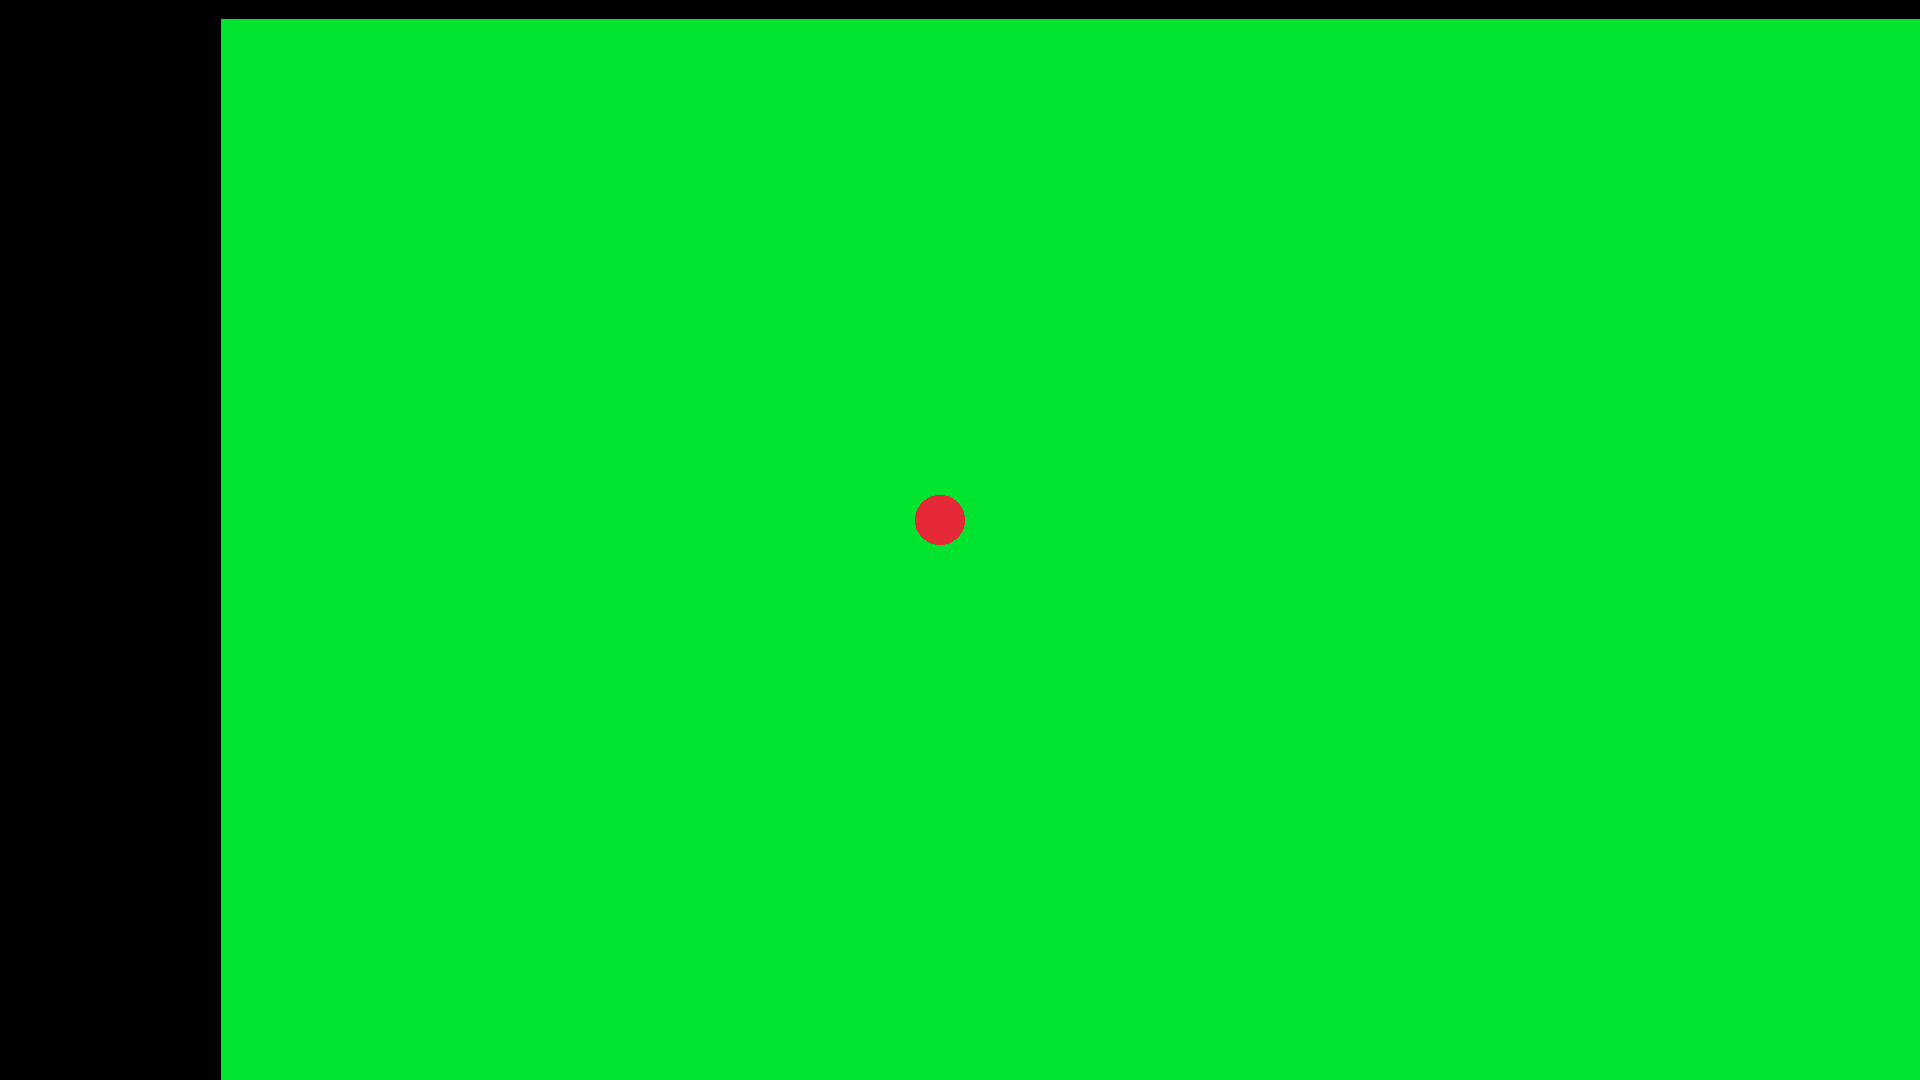
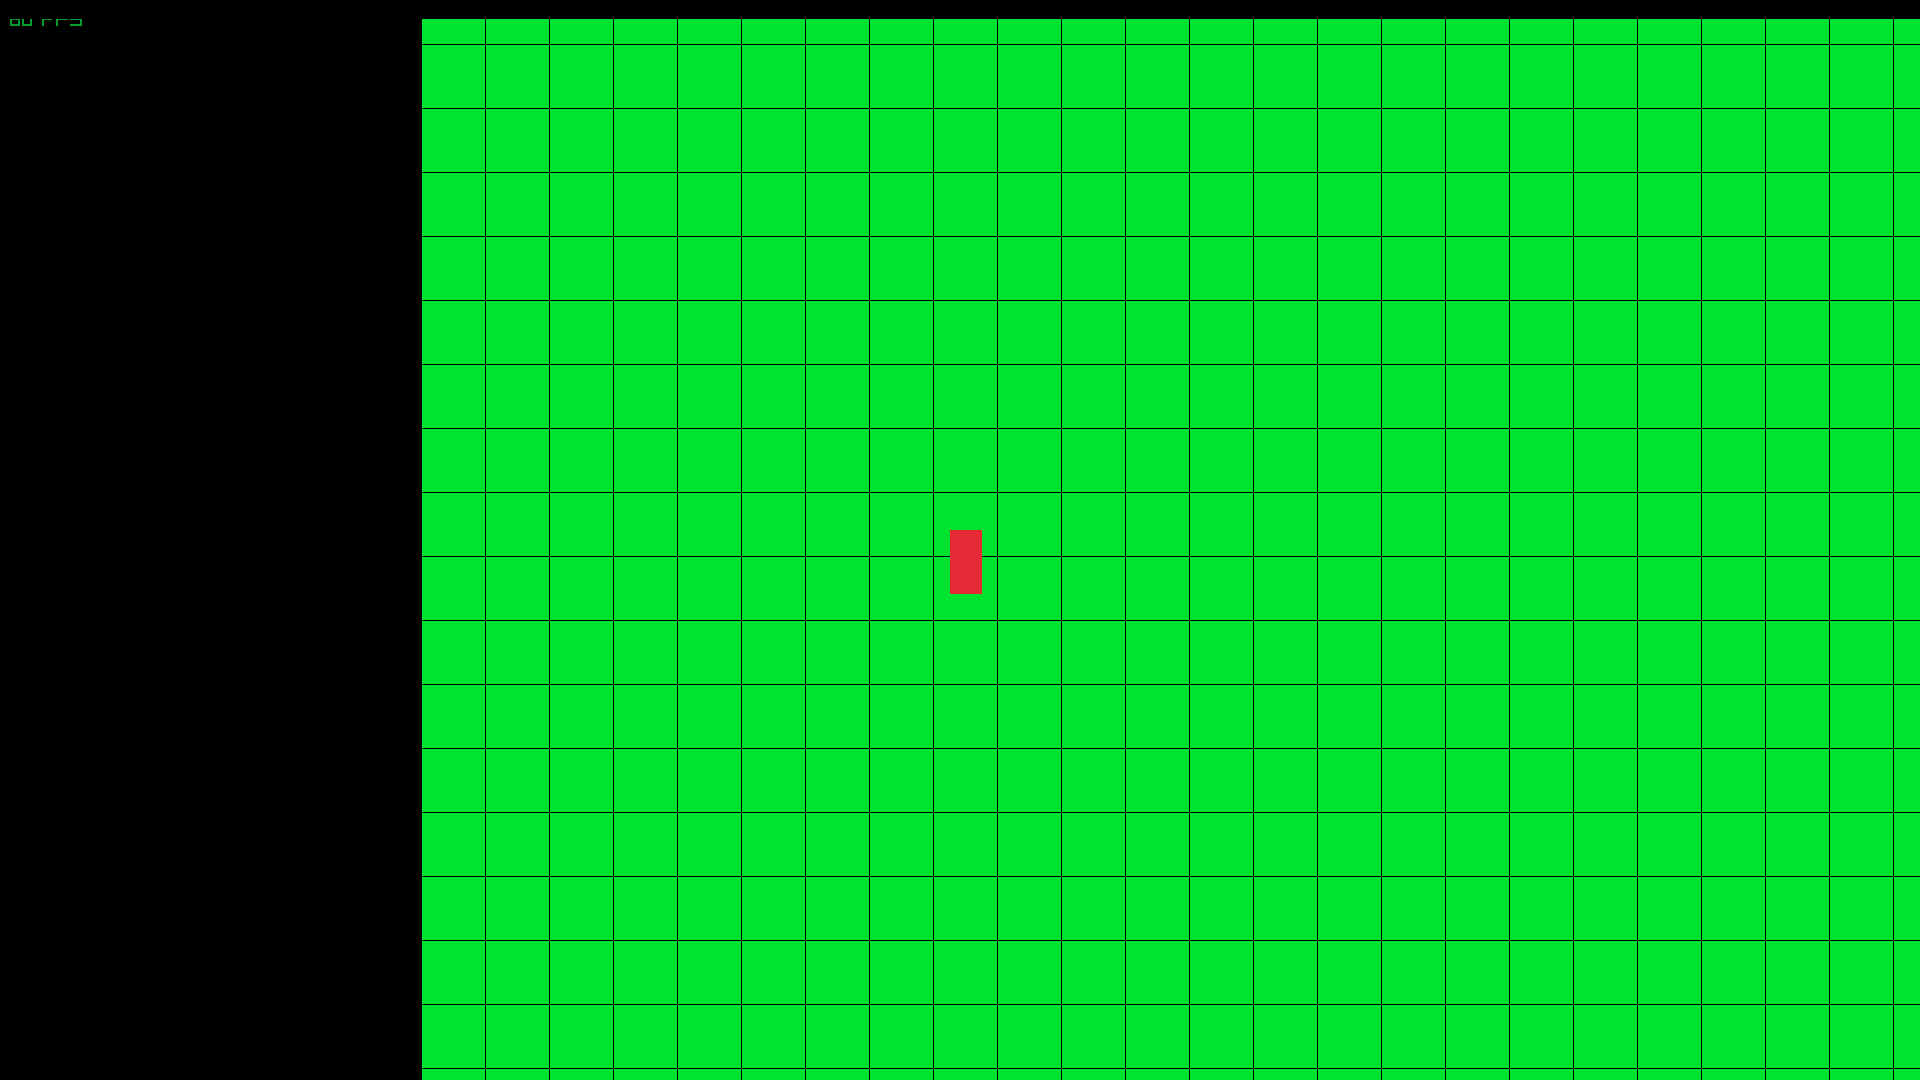
Implement Tiled map loading system and update player data

Changed region(s): [[0.0938, 0.0, 0.2188, 1.0], [0.4688, 0.4583, 0.5312, 0.55]]

diff --git a/Scripts/Scenes/MapLoader.cs b/Scripts/Scenes/MapLoader.cs
@@ -8,21 +8,38 @@ public class MapData
     public int Width;
     public int Height;
     public int TileSize;
-    public int[,] Tiles;
+    public int [,] Tiles;
 }
 
 public class MapLoader
 {
     public MapData Load(string path)
     {
-        TileRawMap raw = JsonSerializer.Deserialize<TileRawMap>(json);
+        string json = File.ReadAllText(path);
+        TiledRawMap raw = JsonSerializer.Deserialize<TiledRawMap>(json);
 
         MapData mapData = new MapData();
         mapData.Width = raw.Width;
-        mapData.Height = raw.height;
-        mapData.TileSize = raw.tileWidth;
-        mapData.Tiles = ConvertTo2D(raw.layers[0].data,raw.width,raw.height)
+        mapData.Height = raw.Height;
+        mapData.TileSize = raw.TileWidth;
 
-        return data;
+        mapData.Tiles = ConvertTo2D(raw.Layers[0].Data,raw.Width,raw.Height);
+
+        return mapData;
+    }
+
+    private int[,] ConvertTo2D(int[] flatData, int width, int height)
+    {
+        int [,] result = new int[width, height];
+        
+        for(int y = 0; y < height; y++)
+        {
+            for(int x = 0; x < width; x++)
+            {
+                int index = y * width + x;
+                result[x,y] = flatData[index];
+            }
+        }
+        return result;
     }
 }

diff --git a/Scripts/Scenes/SceneManager.cs b/Scripts/Scenes/SceneManager.cs
@@ -1,3 +1,5 @@
+using Raylib_cs;
+using System.Numerics;
 
 //Quando o jogo começa, ela não cria um grid gigante genérico. 
 //Ela lê as informações do JSON (ex: "esse mapa tem 40x30") e só então ela inicializa o
@@ -5,8 +7,19 @@
 
 public class SceneManager
 {
-    public void LoadScene(const string SceneName)
+    public GridWorldManager CurrentGrid;
+
+    public void LoadScene(string scenePath)
     {
-        
+        MapLoader loader = new MapLoader();
+        MapData mapData = loader.Load(scenePath);
+
+        CurrentGrid = new GridWorldManager(
+            mapData.Width,
+            mapData.Height,
+            mapData.TileSize
+        );
+
+        CurrentGrid._tiles = mapData.Tiles;
     }
 }

diff --git a/Scripts/Core/Game.cs b/Scripts/Core/Game.cs
@@ -21,7 +21,7 @@ public class Game
         _tileRegistry = new TileRegistry();
         TileBootstrap.Bootstrap(_tileRegistry);
 
-        _gridWorldManager = new GridWorldManager(250, 250, 64);
+        _gridWorldManager = new GridWorldManager(100, 100, 128);
         _player = new PlayerController(new Vector2(500, 500), _gridWorldManager, _tileRegistry);
         _entities.Add(_player);
         _mainCamera = new MainCamera();

diff --git a/Scripts/Scenes/TiledRawMap.cs b/Scripts/Scenes/TiledRawMap.cs
@@ -1,0 +1,17 @@
+using Raylib_cs;
+using System.Collections.Generic;
+using System.Text.Json;
+
+public class TiledRawMap
+{
+    public int Width {get; set;}
+    public int Height {get; set;}
+    public int TileWidth {get; set;}
+    public int TileHeight {get; set;}
+    public List<TiledLayer> Layers {get; set;}
+}
+
+public class TiledLayer
+{
+    public int[] Data {get; set;}
+}

diff --git a/Scripts/Player/PlayerData.cs b/Scripts/Player/PlayerData.cs
@@ -3,7 +3,7 @@ using Raylib_cs;
 
 public class PlayerData
 {
-    public float BaseSpeed = 200f;
+    public float BaseSpeed = 350f;
     public Vector2 Position = new Vector2(500, 500);
     public Vector2 Size = new Vector2(64, 128);
     public int Radius = 25;
